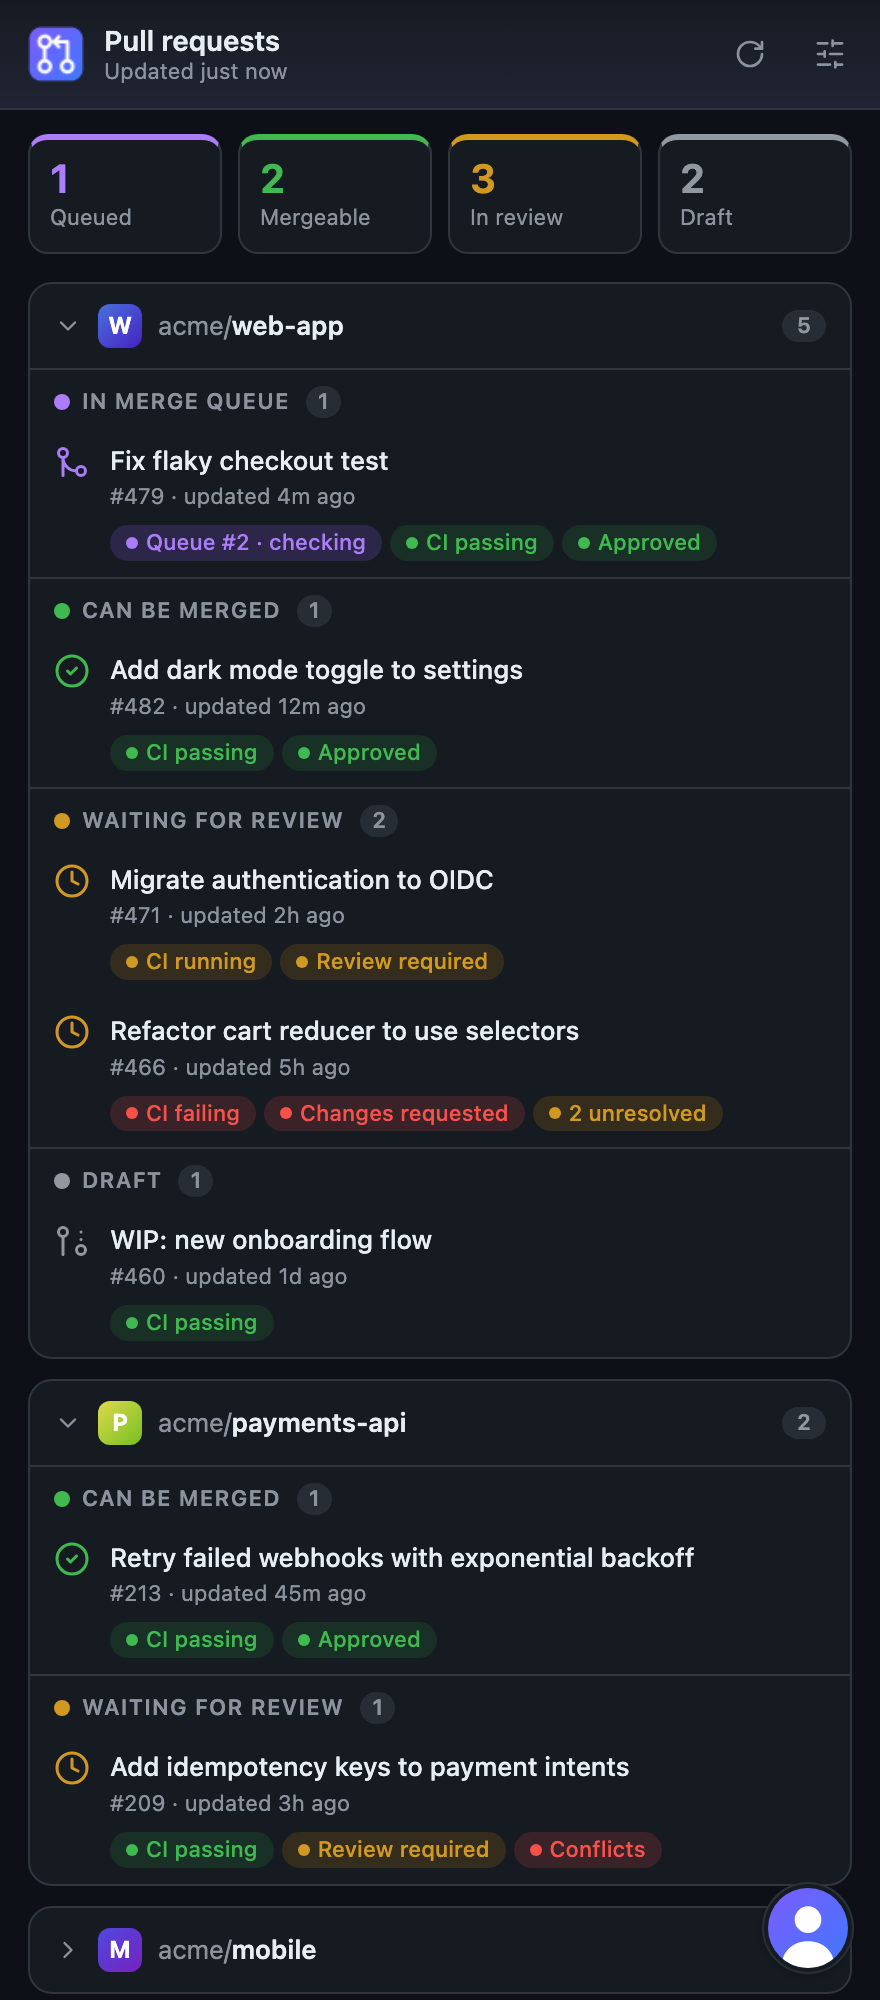
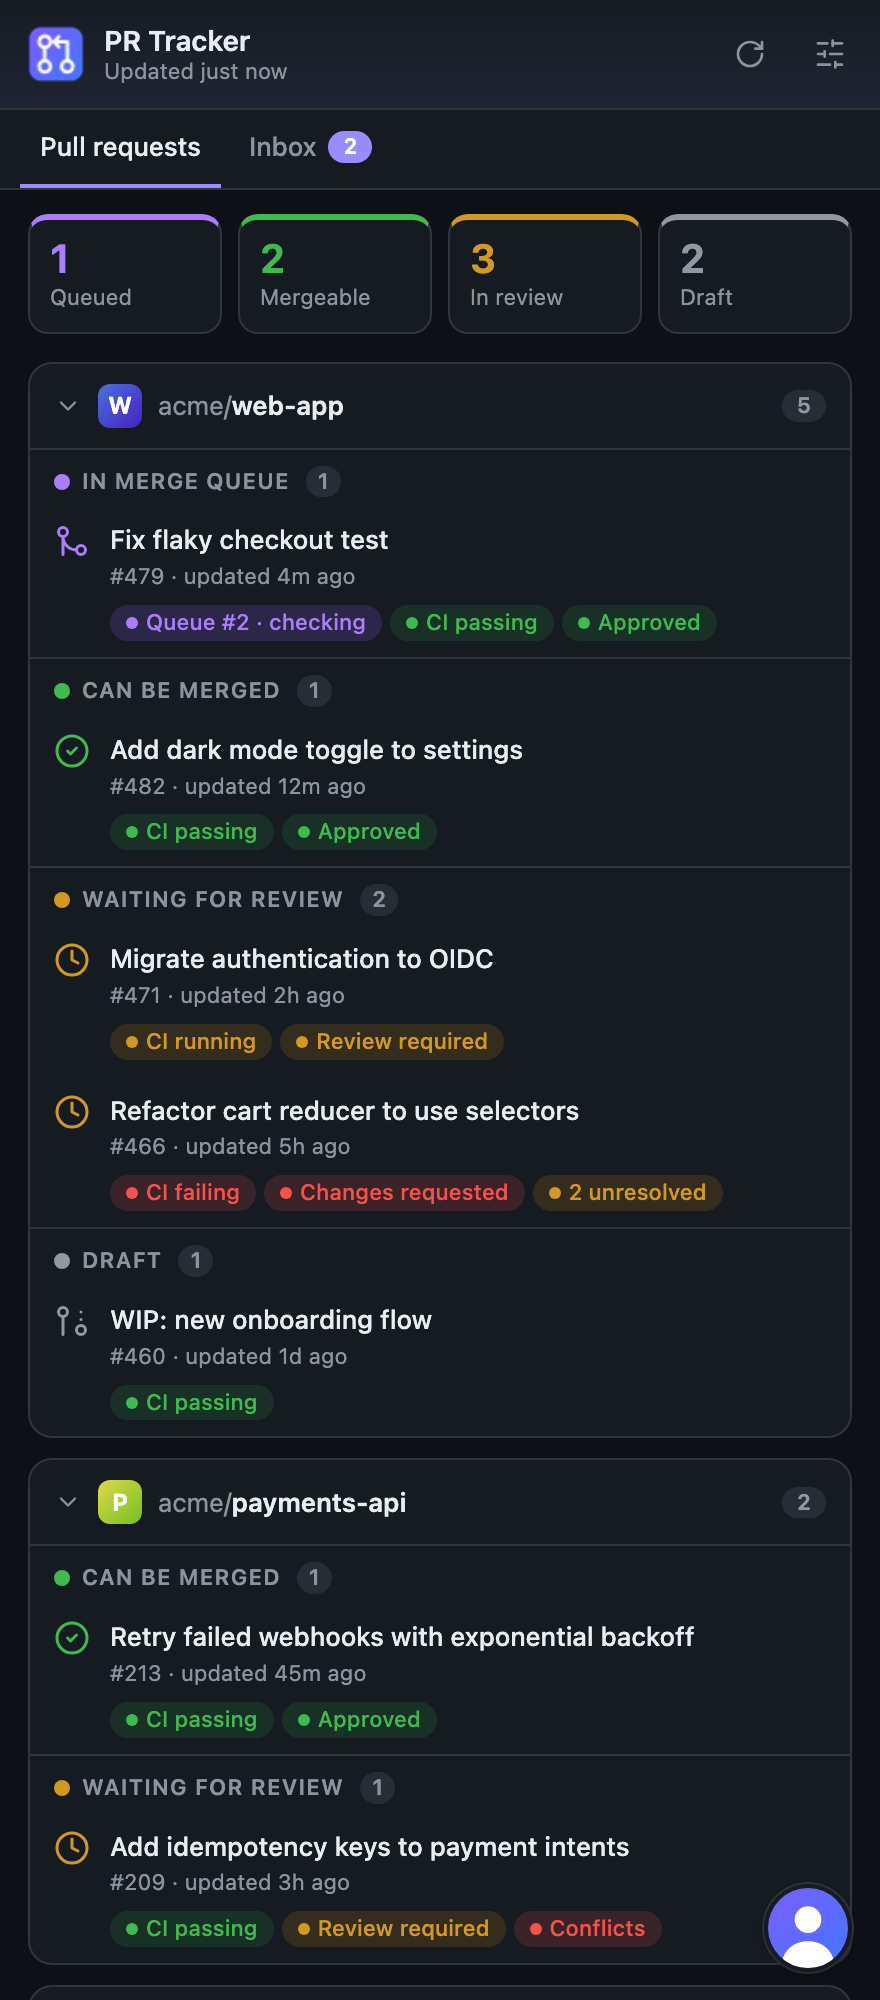
Document repo search, everyone's PRs and the inbox

diff --git a/README.md b/README.md
@@ -15,14 +15,39 @@ A Chrome side panel that shows the state of your open GitHub pull requests, grou
   <sub>Sample data</sub>
 </p>
 
+<p align="center">
+  <picture>
+    <source media="(prefers-color-scheme: dark)" srcset="docs/screenshot-inbox-dark.png">
+    <img src="docs/screenshot-inbox-light.png" alt="PR Tracker Inbox tab showing GitHub notifications" width="360">
+  </picture>
+  <br>
+  <sub>The Inbox tab (sample data)</sub>
+</p>
+
+- Two tabs, **Pull requests** and **Inbox** (with an unread count); the tab you pick is remembered
 - One collapsible section per repo you choose, collapsed by default (your choice is remembered)
+- Find repos by searching GitHub in the settings (live results from 2 characters; type `owner/` to search within one
+  owner; private repos show a lock). Search is debounced, and typing a full `owner/name` offers an **Add** row. The
+  order of your list is the order of the panel sections
+- Show **Only mine** (default) or **Everyone's (20 latest per repo)**: in Everyone's mode each repo lists its 20 most
+  recently updated open PRs with the author's avatar and @login, and yours get an accent marker. A repo with more
+  open PRs ends with "Showing 20 of N · View all on GitHub ↗"
+- An **Inbox** that mirrors [github.com/notifications](https://github.com/notifications) across all repos: type,
+  title, repo, reason and time, with unread rows marked. Click a row to open it on GitHub (it is marked read), or
+  **Done** to remove it from your GitHub inbox. Shows the 50 most recent items
 - PRs grouped as **In merge queue**, **Can be merged**, **Waiting for review** and **Draft**
 - Status chips for CI, review decision, merge conflicts, unresolved threads and merge-queue position
-- A badge on the toolbar icon with the number of open PRs
-- Refreshes every minute; light and dark mode
+- A badge on the toolbar icon with the number of your open PRs
+- Refreshes every minute (the inbox uses a free conditional request, with a full refresh at least every 5 minutes,
+  whenever the panel opens and when you click refresh); light and dark mode
 - No backend: everything runs in the extension, talking to the GitHub API directly
 
-Only open PRs **you authored** are shown.
+By default only open PRs **you authored** are shown. In Everyone's mode, PRs of yours that are not among a repo's
+20 latest are hidden, but the toolbar badge still counts all your open PRs in the followed repos.
+
+The Inbox reads GitHub's notifications API, which does not accept fine-grained tokens. If your token can't read it,
+the panel says so and links to Settings. Classic tokens and the OAuth App sign-in use the `repo` scope, which covers
+notifications.
 
 ## Download
 
@@ -47,7 +72,7 @@ Then in Chrome:
 
 1. Open `chrome://extensions` and turn on **Developer mode**.
 2. Click **Load unpacked** and select the `dist/` folder.
-3. Click the PR Tracker icon in the toolbar to open the side panel.
+3. Click the PR Tracker icon in the toolbar to open the side panel, then search and add your repos in the settings.
 
 ## Set up sign-in (one time)
 
@@ -65,9 +90,11 @@ Usually needs no org owner, so it is the quicker route.
 3. Open the extension's settings (the sliders icon in the panel header) and paste the token under
    **or paste a personal access token**.
 4. Click **Connect**. The extension checks the token with GitHub and saves it only if GitHub accepts it.
-5. Add the repos to follow, one `owner/name` per line, and click **Save**.
+5. Under **Repositories**, search for the repos to follow and click **+ Add** (or type a full `owner/name` and use the
+   **Add** row). Remove one with its ✕, then click **Save**.
 
-Fine-grained tokens also work, but they can still need approval from the org. Some orgs block classic tokens; if
+Fine-grained tokens also work for pull requests, but they can still need approval from the org, and they can't read the Inbox.
+Some orgs block classic tokens; if
 yours does, use Option B.
 
 ### Option B: OAuth App (device flow)
@@ -81,7 +108,8 @@ This uses GitHub's [device flow](https://docs.github.com/en/apps/oauth-apps/buil
 2. Copy the app's **Client ID** (it is public; you never need the client secret).
 3. Open the extension's settings (the sliders icon in the panel header), expand **Advanced**, and paste the Client ID.
 4. Click **Sign in with GitHub**. Enter the code it shows on `github.com/login/device`, go through SSO if asked, and authorize.
-5. Add the repos to follow, one `owner/name` per line, and save.
+5. Under **Repositories**, search for the repos to follow and click **+ Add** (or type a full `owner/name` and use the
+   **Add** row), then click **Save**.
 
 ### Private repos in an organization
 
@@ -93,33 +121,46 @@ org owner approves it (Org settings → Third-party access → OAuth app policy)
 A classic token authorized for SSO (Option A) avoids that approval step.
 
 Classic tokens and the OAuth App need the `repo` scope, the only classic scope that reaches private repos; a
-fine-grained token needs read access to the repos instead. The extension only runs read queries.
+fine-grained token needs read access to the repos instead. The `repo` scope also covers notifications, which the Inbox
+reads.
 
 ## Development
 
 ```sh
 pnpm watch       # rebuild on change (reload the extension in chrome://extensions)
-pnpm typecheck   # tsc --noEmit
+pnpm test        # unit tests (node:test, bundled with esbuild)
+pnpm typecheck   # tsc --noEmit, including test/
 pnpm icons       # regenerate public/icons/*.png from scripts/icons.mjs
 pnpm screenshot  # re-render docs/screenshot-*.png from sample data (needs Chrome)
+SCREENSHOT_TAB=inbox pnpm screenshot  # the same for docs/screenshot-inbox-*.png
 ```
 
 ```
 src/
   background.ts   alarm that refreshes every minute, opens the panel on icon click
-  refresh.ts      fetch -> save snapshot -> update toolbar badge
+  refresh.ts      fetch PRs and inbox -> save snapshots -> update toolbar badge
   github.ts       GraphQL query and mapping to PullRequest
+  inbox.ts        notifications REST fetch (conditional requests), mark read / done
   auth.ts         OAuth device flow
-  panel.ts        side panel UI
-  options.ts      settings page (sign-in, Client ID, repo list)
+  panel.ts        side panel shell: tabs, header, refresh
+  pr-view.ts      Pull requests tab rendering
+  inbox-view.ts   Inbox tab rendering
+  dom.ts          small DOM helpers shared by the views
+  options.ts      settings page (sign-in, Client ID, repo list, PR scope)
+  repo-search.ts  GitHub repo search (debounce, owner/ prefix, results)
+  repo-picker.ts  repo search and Following list UI for the settings
   storage.ts      chrome.storage helpers
   types.ts
+test/             unit tests (node:test) and a chrome.storage stub; run with pnpm test
 public/           manifest, HTML, CSS, icons (copied to dist/)
 ```
 
 ## Limitations
 
-- Looks at your 100 most recently updated open PRs, then filters to the configured repos.
+- In "Only mine" mode, looks at your 100 most recently updated open PRs, then filters to the configured repos.
+- In Everyone's mode, shows the 20 most recently updated open PRs per repo.
+- The Inbox shows the 50 most recent notifications.
+- Fine-grained tokens can't read the Inbox (GitHub's notifications API doesn't accept them).
 - Reads up to 100 review threads per PR.
 - Merge-queue info only appears for repos that use GitHub's merge queue.
 
@@ -127,7 +168,9 @@ public/           manifest, HTML, CSS, icons (copied to dist/)
 
 The access token is stored in `chrome.storage.sync` (it syncs across your signed-in Chrome profiles). The extension
 only talks to `github.com` and `api.github.com`, plus `avatars.githubusercontent.com` for your profile picture.
-Use **Sign out** in the settings to remove the token.
+The extension only reads from GitHub, with one exception: it marks a notification as read or done when you click it
+in the Inbox. It also keeps the cached inbox in local storage next to a short hash of the token (never the token
+itself) so it can tell accounts apart. Use **Sign out** in the settings to remove the token.
 
 ## License
 
